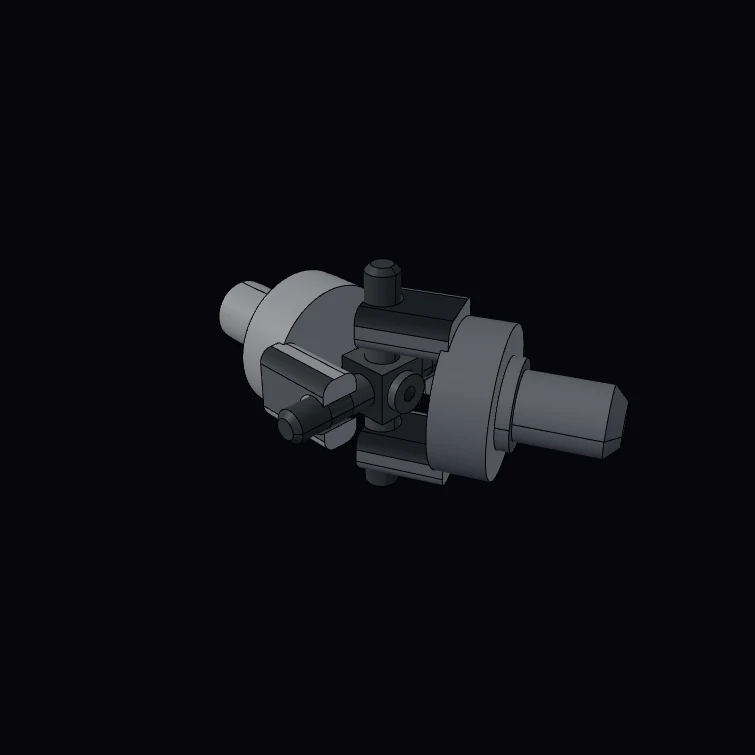
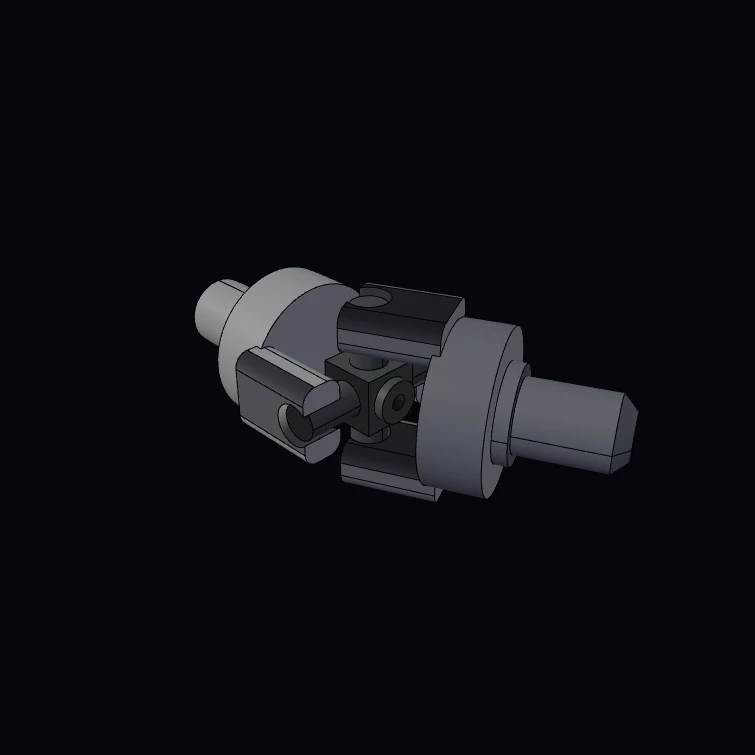
fix(playground): correct disconnected/interpenetrating geometry in the new mechanisms
Hardening review of the three new examples found a fatal flaw in each that
passed eval+mesh but was geometrically wrong — none of the existing gates check
solid connectivity:

- geneva-drive: the drive pin sat at radius 24 on a radius-16 driver disc, so it
  floated off as a separate solid (STEP export crashed on the disjoint compound).
  Redesigned as a correct external 4-slot Geneva: crank rides in a gap under the
  wheel with only the pin/cam entering its envelope, mounted on a baseplate with
  bearing bosses so it reads as one mechanism.
- bench-vise: jaw-plate counterbores opened on the back face (bolt shank would
  push through the serrated grip face). Countersunk them flush into the grip face
  with the bolts moved to top/bottom; resized the oversized T-handle to a tidy
  crank (Y extent 106 -> 64 mm).
- universal-joint: the four "pins" were coaxial with and interpenetrated the
  cross trunnions. Removed them — the cross trunnions are the journals the yoke
  bores ride on (now a clean three-body joint).

Also discovered `fuseAll(..., { unsafe: true })` does NOT weld touching solids
(leaves a multi-solid compound); switched the welds to pairwise/sequential fuse.

Adds a connectivity guard (tests/playgroundExamples.test.ts + bodySolidCounts):
every returned body of these mechanism examples must be a single solid via
getSolids(), the check that catches detached pieces eval+mesh cannot.

Changed region(s): [[0.2437, 0.3351, 0.853, 0.6702]]

diff --git a/apps/playground/src/lib/examples/mechanical.ts b/apps/playground/src/lib/examples/mechanical.ts
@@ -3578,7 +3578,7 @@ export default planetaryReducer();
     id: 'universal-joint',
     label: 'Cardan Universal Joint',
     description:
-      'A Hooke/Cardan universal joint shown at a 25° articulation: two forked yokes on stub shafts, a central cross-spider with grease bosses, and four trunnion pins — each a distinct colored solid.',
+      'A Hooke/Cardan universal joint shown at a 25° articulation: two forked yokes on stub shafts whose fork bores ride on a central cross-spider with grease bosses — three distinct colored solids.',
     code: `import {
   box,
   cylinder,
@@ -3605,9 +3605,7 @@ const ARM_H = 11; // fork-arm height (kept < FORK_GAP so perpendicular forks cle
 const FORK_GAP = 14; // clear gap between the two arms
 const ARM_FILLET = 2; // round the proud arm corners
 const ARM_COVER = 2; // arm material outboard of the bore center
-const PIN_R = 2.5; // trunnion-pin radius
-const BORE_R = 2.9; // bore radius (radial clearance for the pin)
-const PIN_LEN = ARM_W + 4;
+const BORE_R = 2.9; // fork bore radius (radial bearing clearance over the trunnion)
 const CROSS_BODY = 8; // central cross cube edge
 const TRUN_R = 2.5; // cross trunnion radius
 const TRUN_REACH = FORK_GAP / 2 + ARM_W - 1;
@@ -3663,34 +3661,16 @@ function makeCross() {
   return body;
 }
 
-// Trunnion pin along +Y, seated through one arm, lead-in chamfer on the head.
-function makePinY() {
-  const baseY = FORK_GAP / 2 + ARM_W - PIN_LEN / 2;
-  const headY = baseY + PIN_LEN;
-  const pin = cylinder(PIN_R, PIN_LEN, { axis: [0, 1, 0], at: [0, baseY, 0] });
-  const rimCut = cylinder(PIN_R + 0.3, 0.9, { axis: [0, 1, 0], at: [0, headY - 0.9, 0] });
-  const lead = cone(PIN_R, PIN_R - 0.9, 0.9, { axis: [0, 1, 0], at: [0, headY - 0.9, 0] });
-  return unwrap(fuse(unwrap(cut(pin, rimCut)), lead));
-}
-
-// Assemble at the 25° display pose. yokeA unrotated on -X; cross at origin; yokeB
+// Assemble at the 25° display pose. yokeA unrotated; cross at origin; yokeB
 // re-framed (shaft +X, bore Y -> Z) then tilted by BEND about Z. At this pose the
-// exact Cardan precession is zero, so the trunnion bores line up by construction.
+// exact Cardan precession is zero, so each fork bore seats on its cross trunnion
+// (bore radius > trunnion radius = a visible bearing gap) by construction.
 const yokeA = makeYoke();
 const cross = makeCross();
 const yokeBBase = rotate(rotate(makeYoke(), 180, { axis: [0, 0, 1] }), 90, { axis: [1, 0, 0] });
 const yokeB = rotate(yokeBBase, BEND_DEG, { axis: [0, 0, 1] });
-const pinsA = [makePinY(), rotate(makePinY(), 180, { axis: [1, 0, 0] })];
-const pinB1 = rotate(makePinY(), 90, { axis: [1, 0, 0] });
-const pinsB = [pinB1, rotate(pinB1, 180, { axis: [0, 1, 0] })];
 
-export default [
-  color(yokeA, '#b4b9c0'),
-  color(yokeB, '#878d96'),
-  color(cross, '#6b7177'),
-  ...pinsA.map((p) => color(p, '#5d6268')),
-  ...pinsB.map((p) => color(p, '#5d6268')),
-];
+export default [color(yokeA, '#b4b9c0'), color(yokeB, '#878d96'), color(cross, '#6b7177')];
 `,
   },
   {
@@ -3707,80 +3687,101 @@ export default [
   fuseAll,
   rotate,
   translate,
-  fillet,
-  edgeFinder,
   unwrap,
 } from 'brepjs/quick';
 import { color } from 'brepjs/playground';
 
-// Geneva (Maltese cross) 4-slot intermittent drive. The driver disc sits on the
-// line of centers at +X; its drive pin enters one wheel slot to index it, and the
-// convex cam locks the wheel between steps. Two distinct solids on stub shafts.
-const PIN_PITCH_R = 24; // drive-pin pitch radius on the driver
-const CENTER_DIST = PIN_PITCH_R * Math.SQRT2; // d = pinR·√2 for a 4-slot wheel (~33.9)
+// Geneva (Maltese cross) 4-slot intermittent drive on a baseplate so it reads as
+// one mechanism. The driver's crank rides in a gap UNDER the wheel; only its drive
+// pin rises into a slot and its locking cam rises (relieved) alongside the wheel
+// rim, so nothing else enters the wheel's swept envelope. The wheel indexes 90°
+// per driver revolution; the convex cam locks it between steps.
+const CENTER_DIST = 36; // C: wheel axis (origin) to driver axis
+const PIN_PITCH_R = CENTER_DIST / Math.SQRT2; // crank/pin radius p = C/√2 (≈25.46)
 const PIN_R = 3; // drive-pin radius
-const PIN_H = 6; // pin proud of the driver face
 const PIN_LEADIN_H = 1.5; // conical lead-in at the pin tip
-const WHEEL_R = 24; // Maltese wheel radius (Ø48)
-const WHEEL_H = 8; // disc thickness
-const SLOT_W = 7; // radial slot width (pin Ø6 + clearance)
-const SLOT_INNER_R = CENTER_DIST - PIN_PITCH_R - PIN_R - 1;
-const DRIVER_R = 16; // driver disc radius
-const DRIVER_H = 8; // driver thickness
-const CAM_RELIEF_R = 17; // relief cylinder carving the locking cam
-const RECESS_R = DRIVER_R + 0.6; // rim scallop radius matching the cam arc
+const PLATE_H = 4; // baseplate thickness
+const GAP_Z = 3; // gap between plate top and wheel disc (the crank lives here)
+const CRANK_Z0 = PLATE_H; // crank bottom face
+const CRANK_H = GAP_Z; // crank thickness (sits entirely in the gap)
+const WHEEL_Z0 = PLATE_H + GAP_Z; // wheel disc bottom face
+const WHEEL_H = 8; // wheel disc thickness
+const WHEEL_R = PIN_PITCH_R - 0.5; // slot tangent to the pin circle (≈24.96)
+const SLOT_W = 2 * PIN_R + 1; // radial slot width (pin Ø6 + clearance)
+const SLOT_INNER_R = CENTER_DIST - PIN_PITCH_R - PIN_R - 1; // slot depth (≈6.5)
+const CAM_R = CENTER_DIST - WHEEL_R - 0.4; // convex locking-cam radius (≈10.6)
+const CAM_TOP_Z = WHEEL_Z0 + WHEEL_H; // cam reaches the top of the wheel disc
+const CAM_RELIEF_R = WHEEL_R + 1.5; // kidney notch (about the wheel axis)
+const ARM_W = 2 * PIN_R + 0.6; // crank-arm width
+const PIN_TOP_Z = WHEEL_Z0 + WHEEL_H / 2 + 1.5; // pin reaches just above mid-slot
+const DRIVER_FOOTPRINT_R = PIN_PITCH_R + PIN_R; // crank reach (sets the baseplate)
 const SHAFT_R = 6; // stub-shaft radius
-const SHAFT_H = 6; // stub-shaft length below each disc
+const SHAFT_H = 6; // stub-shaft length into the baseplate boss
 const BORE_R = 4.2; // center bore radius
-const HUB_R = 7; // raised hub-boss collar radius
+const HUB_R = 8; // raised hub-boss collar radius
 const HUB_H = 3; // hub boss proud of the top face
+const PLATE_MARGIN = 6; // plate overhang beyond the wheels' footprint
+const BOSS_R = SHAFT_R + 2.5; // bearing-boss outer radius
+const BOSS_H = SHAFT_H + 1; // boss height
+const BOSS_BORE_R = SHAFT_R + 0.4; // boss bore (clearance over the stub shaft)
 
+// Driven Maltese wheel: 4 radial slots + 4 concave lock recesses, stub shaft, hub.
 function drivenWheel() {
-  const disc = cylinder(WHEEL_R, WHEEL_H);
-
-  // 4 radial slots, one every 90°, running from the rim inward.
+  const z0 = WHEEL_Z0;
+  const disc = cylinder(WHEEL_R, WHEEL_H, { at: [0, 0, z0] });
   const slotLen = WHEEL_R - SLOT_INNER_R + 2;
-  const slotTool = box(slotLen, SLOT_W, WHEEL_H + 4, { at: [SLOT_INNER_R + slotLen / 2, 0, WHEEL_H / 2] });
+  const slotTool = box(slotLen, SLOT_W, WHEEL_H + 4, { at: [SLOT_INNER_R + slotLen / 2, 0, z0 + WHEEL_H / 2] });
   let body = unwrap(cutAll(disc, [0, 90, 180, 270].map((a) => rotate(slotTool, a, { axis: [0, 0, 1] }))));
 
-  // 4 concave locking recesses on the rim, between the slots.
-  const recessTool = cylinder(RECESS_R, WHEEL_H + 4, { at: [CENTER_DIST, 0, -2] });
+  const recessTool = cylinder(CAM_R + 0.5, WHEEL_H + 4, { at: [CENTER_DIST, 0, z0 - 2] });
   for (const a of [45, 135, 225, 315]) {
     body = unwrap(cut(body, rotate(recessTool, a, { axis: [0, 0, 1] })));
   }
 
-  // Stub shaft below (welds to the disc) + raised hub boss above, then bore through.
-  const shaft = cylinder(SHAFT_R, SHAFT_H + WHEEL_H, { at: [0, 0, -SHAFT_H] });
-  const hub = cylinder(HUB_R, HUB_H + 1, { at: [0, 0, WHEEL_H - 1] });
-  body = unwrap(fuseAll([body, shaft, hub], { unsafe: true }));
-  body = unwrap(cut(body, cylinder(BORE_R, SHAFT_H + WHEEL_H + HUB_H + 4, { at: [0, 0, -SHAFT_H - 2] })));
-
-  // Soften only the full-height lobe-tip / slot-mouth corners (pin clearance unchanged).
-  return unwrap(fillet(body, edgeFinder().inDirection('Z').ofLength(WHEEL_H), 0.6));
+  const shaft = cylinder(SHAFT_R, z0 + WHEEL_H, { at: [0, 0, 0] });
+  const hub = cylinder(HUB_R, HUB_H + 1, { at: [0, 0, z0 + WHEEL_H - 1] });
+  body = unwrap(fuseAll([body, shaft, hub], { unsafe: true, strategy: 'pairwise' }));
+  return unwrap(cut(body, cylinder(BORE_R, z0 + WHEEL_H + HUB_H + 4, { at: [0, 0, -2] })));
 }
 
+// Driver: a kidney-relieved locking-cam disc + a crank arm carrying the drive pin,
+// all riding in the gap under the wheel; stub shaft + hub.
 function driver() {
-  const disc = cylinder(DRIVER_R, DRIVER_H);
+  const camDisc = cylinder(CAM_R, CAM_TOP_Z - CRANK_Z0, { at: [0, 0, CRANK_Z0] });
+  const relief = cylinder(CAM_RELIEF_R, CAM_TOP_Z - CRANK_Z0 + 4, { at: [-CENTER_DIST, 0, CRANK_Z0 - 2] });
+  const cam = unwrap(cut(camDisc, relief));
 
-  // Circular relief leaves a convex locking segment that clears the wheel lobes.
-  const relief = cylinder(CAM_RELIEF_R, DRIVER_H + 4, { at: [-(DRIVER_R + CAM_RELIEF_R - DRIVER_R * 0.55), 0, -2] });
-  let body = unwrap(cut(disc, relief));
+  const armLen = PIN_PITCH_R + PIN_R;
+  const arm = box(armLen, ARM_W, CRANK_H, { at: [-armLen / 2, 0, CRANK_Z0 + CRANK_H / 2] });
 
-  // Drive pin (on the -X side, toward the wheel) with a conical lead-in tip.
-  const pinShaftH = PIN_H + DRIVER_H - PIN_LEADIN_H;
-  const pin = cylinder(PIN_R, pinShaftH, { at: [-PIN_PITCH_R, 0, 0] });
-  const pinTip = cone(PIN_R, PIN_R - PIN_LEADIN_H, PIN_LEADIN_H + 0.01, { at: [-PIN_PITCH_R, 0, pinShaftH] });
-  body = unwrap(fuseAll([body, pin, pinTip], { unsafe: true }));
+  const pinShaftH = PIN_TOP_Z - CRANK_Z0 - PIN_LEADIN_H;
+  const pin = cylinder(PIN_R, pinShaftH, { at: [-PIN_PITCH_R, 0, CRANK_Z0] });
+  const pinTip = cone(PIN_R, PIN_R - PIN_LEADIN_H, PIN_LEADIN_H + 0.01, { at: [-PIN_PITCH_R, 0, CRANK_Z0 + pinShaftH] });
 
-  // Stub shaft + hub boss mirroring the wheel, then bore through.
-  const shaft = cylinder(SHAFT_R, SHAFT_H + DRIVER_H, { at: [0, 0, -SHAFT_H] });
-  const hub = cylinder(HUB_R, HUB_H + 1, { at: [0, 0, DRIVER_H - 1] });
-  body = unwrap(fuseAll([body, shaft, hub], { unsafe: true }));
-  return unwrap(cut(body, cylinder(BORE_R, SHAFT_H + DRIVER_H + HUB_H + 4, { at: [0, 0, -SHAFT_H - 2] })));
+  const shaft = cylinder(SHAFT_R, CRANK_Z0 + CRANK_H, { at: [0, 0, 0] });
+  const hub = cylinder(HUB_R, HUB_H + 1, { at: [0, 0, CAM_TOP_Z - 1] });
+
+  let body = unwrap(fuseAll([cam, arm, pin, pinTip, shaft, hub], { unsafe: true, strategy: 'pairwise' }));
+  return unwrap(cut(body, cylinder(BORE_R, CAM_TOP_Z + HUB_H + 4, { at: [0, 0, -2] })));
+}
+
+// Baseplate with two raised bearing bosses at the shaft centres.
+function baseplate() {
+  const xMin = -WHEEL_R - PLATE_MARGIN;
+  const xMax = CENTER_DIST + DRIVER_FOOTPRINT_R + PLATE_MARGIN;
+  const yHalf = Math.max(WHEEL_R, DRIVER_FOOTPRINT_R) + PLATE_MARGIN;
+  const plate = box(xMax - xMin, 2 * yHalf, PLATE_H, { at: [(xMin + xMax) / 2, 0, PLATE_H / 2] });
+  const wheelBoss = cylinder(BOSS_R, BOSS_H + 1, { at: [0, 0, PLATE_H - 1] });
+  const driverBoss = cylinder(BOSS_R, BOSS_H + 1, { at: [CENTER_DIST, 0, PLATE_H - 1] });
+  let body = unwrap(fuseAll([plate, wheelBoss, driverBoss], { unsafe: true, strategy: 'pairwise' }));
+  const wheelBore = cylinder(BOSS_BORE_R, BOSS_H + PLATE_H + 4, { at: [0, 0, -2] });
+  const driverBore = cylinder(BOSS_BORE_R, BOSS_H + PLATE_H + 4, { at: [CENTER_DIST, 0, -2] });
+  return unwrap(cutAll(body, [wheelBore, driverBore]));
 }
 
 // Seated display pose: drive pin centred in a slot on the line of centers.
 export default [
+  color(baseplate(), '#565b61'),
   color(drivenWheel(), '#b98a3c'),
   color(translate(driver(), [CENTER_DIST, 0, 0]), '#8f99a3'),
 ];
@@ -3795,7 +3796,6 @@ export default [
   box,
   cylinder,
   fuse,
-  fuseAll,
   cut,
   cutAll,
   translate,
@@ -3835,12 +3835,12 @@ const P = {
   nutBoreR: 6.4, // nut bore radius in the sliding jaw (mm)
   collarR: 9, // screw collar radius (mm)
   collarThick: 6, // screw collar thickness along X (mm)
-  handleR: 5, // T-handle bar radius (mm)
-  handleLen: 84, // T-handle bar length (mm)
-  handleHubR: 8, // hub where the bar passes through the screw end (mm)
-  handleHubLen: 16, // hub length (mm)
-  knobR: 7, // flat-capped knob radius (mm)
-  knobLen: 11, // knob length (mm)
+  handleR: 3.5, // T-handle crossbar radius (mm)
+  handleLen: 44, // crossbar length between knobs (mm)
+  handleHubR: 7, // hub where the bar passes through the screw end (mm)
+  handleHubLen: 13, // hub length (mm)
+  knobR: 5, // flat-capped knob radius (mm)
+  knobLen: 8, // knob length (mm)
   plateThick: 6, // jaw-plate thickness along X (mm)
   plateWidth: 50, // jaw-plate width along Y (mm)
   plateHeight: 34, // jaw-plate height along Z (mm)
@@ -3862,9 +3862,11 @@ function buildBody() {
     .findAll(base);
   base = unwrap(fillet(base, baseBottom, P.baseFillet));
 
+  // Rails sink into the base so the booleans weld to one solid.
   const railTop = P.baseHeight + P.railHeight;
+  const sink = 3;
   const makeRail = (cy: number) => {
-    const rail = box(P.baseLen, P.railWidth, P.railHeight, { at: [P.baseLen / 2, cy, P.baseHeight + P.railHeight / 2] });
+    const rail = box(P.baseLen, P.railWidth, P.railHeight + sink, { at: [P.baseLen / 2, cy, P.baseHeight + P.railHeight / 2 - sink / 2] });
     const topEdges = edgeFinder()
       .inDirection('X')
       .when((f: Edge) => getBounds(f).zMax > railTop - 0.5)
@@ -3876,7 +3878,10 @@ function buildBody() {
     at: [P.fixedJawX - P.fixedJawThick / 2, 0, P.jawTopZ / 2],
   });
 
-  let body = unwrap(fuseAll([base, makeRail(-P.railGap / 2), makeRail(P.railGap / 2), fixedJaw], { unsafe: true }));
+  // Sequential fuse welds the casting into one watertight solid.
+  let body = unwrap(fuse(base, makeRail(-P.railGap / 2)));
+  body = unwrap(fuse(body, makeRail(P.railGap / 2)));
+  body = unwrap(fuse(body, fixedJaw));
 
   const bore = rotate(cylinder(P.screwBoreR, P.fixedJawThick + 20), 90, { axis: [0, 1, 0] });
   return unwrap(cut(body, translate(bore, [P.fixedJawX + 10, 0, screwZ])));
@@ -3907,27 +3912,31 @@ function buildScrew() {
   screw = unwrap(fuse(screw, translate(ridge, [0, 0, 4])));
   screw = unwrap(fuse(screw, cylinder(P.collarR, P.collarThick, { at: [0, 0, P.threadLen + 12] })));
 
+  // T-handle crossbar through a raised hub, flat-capped knob ends (no spheres);
+  // sequential fuse welds the crank into one solid.
   const handleZ = shankLen - 8;
   const hub = cylinder(P.handleHubR, P.handleHubLen, { at: [0, 0, handleZ - P.handleHubLen / 2] });
   const bar = translate(rotate(cylinder(P.handleR, P.handleLen, { at: [0, 0, -P.handleLen / 2] }), 90, { axis: [1, 0, 0] }), [0, 0, handleZ]);
-  screw = unwrap(fuseAll([screw, hub, bar], { unsafe: true }));
+  screw = unwrap(fuse(screw, hub));
+  screw = unwrap(fuse(screw, bar));
 
   const knobBase = rotate(cylinder(P.knobR, P.knobLen, { at: [0, 0, -P.knobLen / 2] }), 90, { axis: [1, 0, 0] });
-  const off = P.handleLen / 2 + P.knobLen / 2;
-  const knobPlus = translate(knobBase, [0, off, handleZ]);
-  const knobMinus = translate(rotate(knobBase, 180, { axis: [1, 0, 0] }), [0, -off, handleZ]);
-  return unwrap(fuseAll([screw, knobPlus, knobMinus], { unsafe: true }));
+  const off = P.handleLen / 2 + P.knobLen / 2 - 1;
+  screw = unwrap(fuse(screw, translate(knobBase, [0, off, handleZ])));
+  return unwrap(fuse(screw, translate(rotate(knobBase, 180, { axis: [1, 0, 0] }), [0, -off, handleZ])));
 }
 
 // Jaw plate (hardened steel): counterbored bolt holes + serration grooves.
 function buildPlate() {
   let plate = box(P.plateThick, P.plateWidth, P.plateHeight, { at: [P.plateThick / 2, 0, P.plateHeight / 2] });
+  // Bolt head countersunk FLUSH into the grip face (X=plateThick), plain shank
+  // through to the back into the jaw; bolts at top/bottom, clear of the grip band.
   const tools = [];
-  for (const cy of [-P.plateWidth / 4, P.plateWidth / 4]) {
+  for (const cz of [P.plateHeight - 7, 7]) {
     const through = rotate(cylinder(P.boltR, P.plateThick + 4), 90, { axis: [0, 1, 0] });
     const cbore = rotate(cylinder(P.cboreR, P.cboreDepth + 0.5), 90, { axis: [0, 1, 0] });
-    tools.push(translate(through, [P.plateThick + 2, cy, P.plateHeight / 2]));
-    tools.push(translate(cbore, [P.cboreDepth - 0.5, cy, P.plateHeight / 2]));
+    tools.push(translate(through, [P.plateThick + 2, 0, cz]));
+    tools.push(translate(cbore, [P.plateThick - P.cboreDepth + 0.5, 0, cz]));
   }
   plate = unwrap(cutAll(plate, tools));
 

diff --git a/tests/playgroundExamples.test.ts b/tests/playgroundExamples.test.ts
@@ -10,7 +10,7 @@
 import { describe, it, beforeAll, expect } from 'vitest';
 import { initOC } from './setup.js';
 import { EXAMPLES } from '../apps/playground/src/lib/examples/index.js';
-import { evalAndMeshExample } from './helpers/playgroundExampleEval.js';
+import { evalAndMeshExample, bodySolidCounts } from './helpers/playgroundExampleEval.js';
 
 beforeAll(async () => {
   await initOC();
@@ -44,6 +44,24 @@ describe('playground examples', () => {
         SILENT_FALLBACK.test(example.code),
         `${example.id} swallows a Result with a fallback; unwrap() finishing ops instead so failures surface`
       ).toBe(false);
+    });
+  }
+
+  // Multi-part mechanism/assembly examples return an array of DISTINCT bodies,
+  // each of which must be a single connected solid. A body that is secretly a
+  // multi-solid compound — a pin floating off its disc, parts glued by a fuse
+  // that never welded — passes eval+mesh (a disjoint compound still meshes) yet
+  // detaches on STEP/GLB export. getSolids() is the only thing that catches it.
+  const CONNECTED_BODY_EXAMPLES = ['universal-joint', 'geneva-drive', 'bench-vise'];
+  for (const id of CONNECTED_BODY_EXAMPLES) {
+    it(`every returned body is a single connected solid: ${id}`, async () => {
+      const example = EXAMPLES.find((e) => e.id === id);
+      if (!example) throw new Error(`example ${id} not found`);
+      const counts = await bodySolidCounts(example.code);
+      expect(counts.length).toBeGreaterThan(0);
+      counts.forEach((n, i) => {
+        expect(n, `${id} body[${i}] is not one solid (getSolids=${n})`).toBe(1);
+      });
     });
   }
 });

diff --git a/tests/helpers/playgroundExampleEval.ts b/tests/helpers/playgroundExampleEval.ts
@@ -141,3 +141,19 @@ export async function evalAndMeshExample(code: string): Promise<MeshCheck> {
   }
   return { shapeCount: shapes.length, totalVertices };
 }
+
+/**
+ * Run an example and return `getSolids().length` for each exported body. A
+ * multi-part assembly example returns an array of DISTINCT bodies, each of which
+ * should be a single connected solid; a count > 1 means a piece detached (e.g. a
+ * pin floating off its disc). eval+mesh can't catch this — a disjoint compound
+ * still meshes — so connectivity needs its own assertion.
+ */
+export async function bodySolidCounts(code: string): Promise<number[]> {
+  const shapes = await runExample(code);
+  return shapes.map((s) => {
+    const shape = unwrapResultShape(s);
+    // eslint-disable-next-line @typescript-eslint/no-explicit-any -- brepjs barrel over WASM handles
+    return ((brepjs as any).getSolids(shape) as unknown[]).length;
+  });
+}
